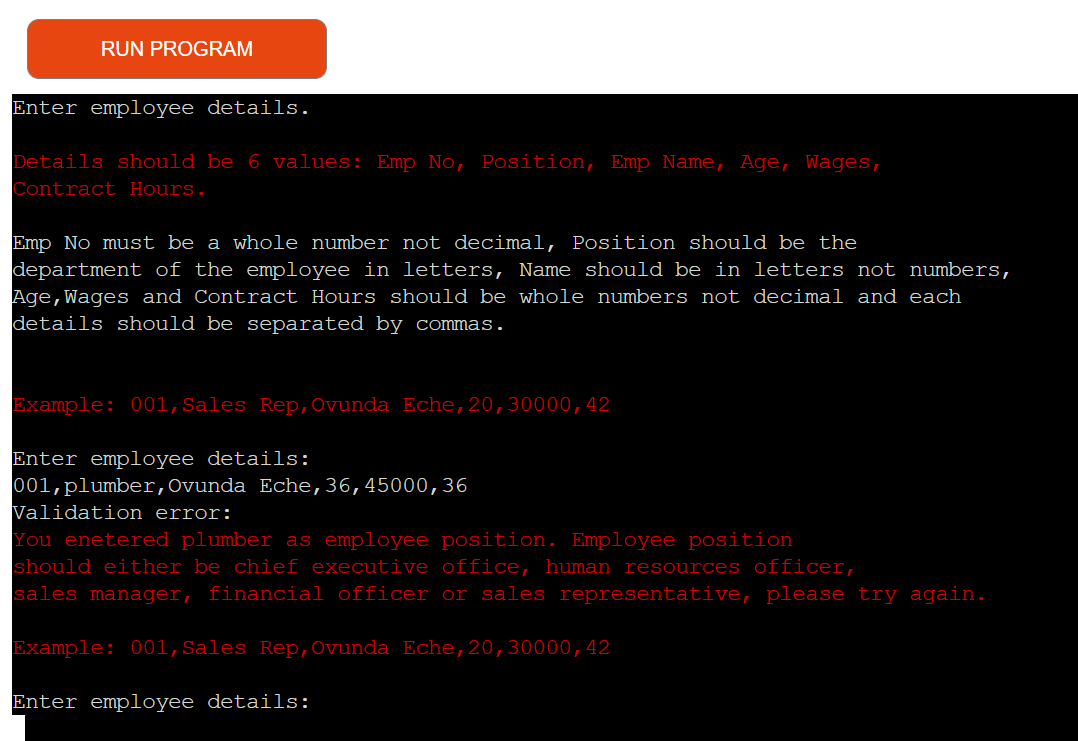
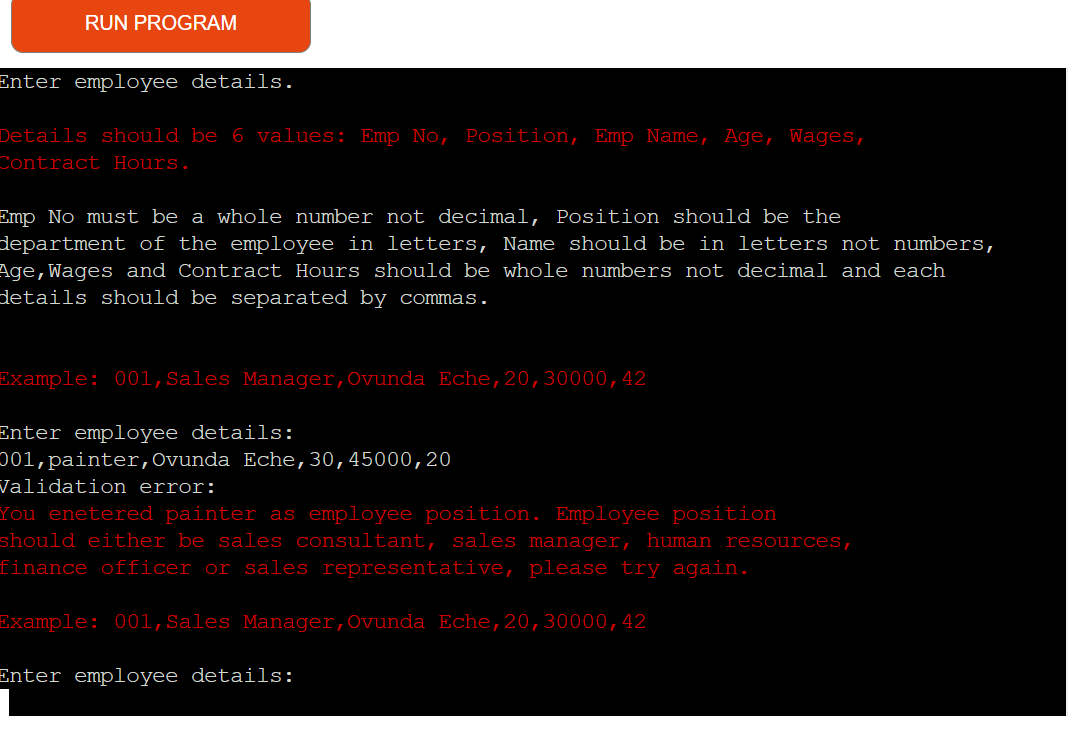
Add image of error-message-4 to README file

Changed region(s): [[0.0, 0.0, 1.0, 1.0]]

diff --git a/run.py b/run.py
@@ -65,7 +65,7 @@ expected Employee No in whole number""")
 {Fore.RED}Invalid data type entered for employee position, You enetered
 {(details[1])}. Expected employee position in letters""")
 
-        if details[1] not in ["sales manager", "sales consultant", "sales representative", "finance officer", "human resources"]:
+        if details[1] not in ["Sales Manager", "Sales Consultant", "Sales Representative", "Finance Officer", "Human Resources"]:
             raise ValueError(f"""
 {Fore.RED}You enetered {(details[1])} as employee position. Employee position
 should either be sales consultant, sales manager, human resources, 
@@ -147,6 +147,7 @@ def update_employee_data_worksheet(detail):
     """Update data worksheet with list of new employee details provided."""
     print("Updating worksheet with employee details entered...\n")
     detail_worksheet = SHEET.worksheet("data")
+    print("detail")
     detail_worksheet.append_row(detail)
     print(f"""{Fore.YELLOW}You have successfully updated employee data in
         worksheet.\n""")

diff --git a/README.md b/README.md
@@ -64,8 +64,7 @@ When a user enters a position not included in the company's positions, the user 
 
 ![error-message](documentation/error-message-4.png)
 
-
-When a user enters numbers in place of words for Name, the user will see an error message and a provision to re-enter employee details.
+When a user enters numbers in place of letters for Name, the user will see an error message and a provision to re-enter employee details.
 
 ![error-message]()
 
